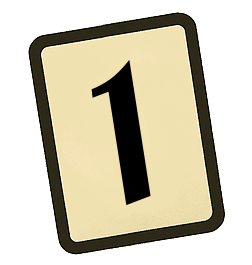
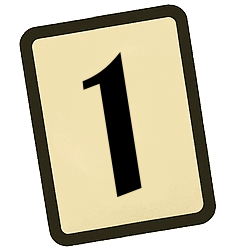
Draw 1

Changed region(s): [[0.0598, 0.0, 0.9274, 1.0], [0.3291, 0.1944, 0.6282, 0.7778], [0.4487, 0.4722, 0.4786, 0.6389]]

diff --git a/deckhand2/2.css b/deckhand2/2.css
@@ -194,15 +194,6 @@ img {
     margin-bottom: -3px;
 }
 
-.arrow {
-    width: 22px;
-    display: inline-flex;
-    margin-right: 2px;
-    margin-bottom: -6px;
-    margin-left: 2px;
-    margin-top: -1px;
-}
-
 .changed {
     color: red;
     font-weight: bold;
@@ -266,11 +257,6 @@ img {
 
 .type .resource.gun {
     margin: 0px 4px;
-}
-
-.type .resource.arrow {
-    padding: 3px 0px;
-    margin: 0 -1px;
 }
 
 .type .resource img {
@@ -607,9 +593,7 @@ img {
 }
 
 .right .draw-1 {
-    width: 37px;
-    margin-right: -2px;
-    margin-left: 1px;
+    width: 33px;
     margin-top: -2.5px;
 }
 
@@ -649,7 +633,6 @@ img {
 
 .right img.res {
     width: 35px;
-    margin-bottom: 3px;
     /* filter: drop-shadow(1px 1px 0.5px #00000066); */
 }
 
@@ -738,6 +721,7 @@ img {
 
 .right img.arrow {
     margin-left: 4px;
+    margin-right: 3px;
     width: 30px;
     /* filter: drop-shadow(1px 1px 1.2px #000000a7); */
     /* margin-right: -4px; */
